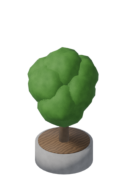
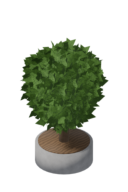
feat(park): 3D wooden fences, forest edge, entrance gate, decoration variants, leafy foliage

Changed region(s): [[0.1562, 0.1875, 0.8438, 0.7812], [0.6562, 0.75, 0.6875, 0.7812]]

diff --git a/src/render/GameScene.js b/src/render/GameScene.js
@@ -44,10 +44,12 @@ export class GameScene extends Phaser.Scene {
       }
     }
     this.fences = this.add.graphics().setDepth(FENCE_DEPTH);
+    this.fenceSprites = [];
     this.ghost = this.add.graphics().setDepth(GHOST_DEPTH);
     this.buildingSprites = new Map();
     this.entitySprites = new Map(); // id -> { sprite, bubble, kind }
     this.lastGridVersion = -1;
+    this.createSurroundings();
 
     this.cameras.main.setZoom(1.2);
     this.centerView();
@@ -57,6 +59,43 @@ export class GameScene extends Phaser.Scene {
 
     this.setupInput();
     this.ui.bindScene(this);
+  }
+
+  // Static scenery around the playable grid: grass ring, a forest edge and the entrance gate.
+  // Purely visual; uses the Blender renders when they are loaded.
+  createSurroundings() {
+    const { grid, entrance } = this.world;
+    const has = (k) => this.textures.exists(k);
+    const RING = 7;
+    let seed = 12345;
+    const rnd = () => ((seed = (seed * 1103515245 + 12345) % 2147483648) / 2147483648);
+    for (let ty = -RING; ty < grid.h + RING; ty++) {
+      for (let tx = -RING; tx < grid.w + RING; tx++) {
+        if (grid.inBounds(tx, ty)) continue;
+        const p = tileToScreen(tx, ty);
+        const key = realKey(this, (tx * 7 + ty * 13) % 5 === 0 ? 'tile-grass2' : 'tile-grass');
+        this.add.image(p.x, p.y, key).setDisplaySize(66, 33).setDepth(GROUND_DEPTH);
+      }
+    }
+    // forest edge: trees on every other cell of the ring, denser further out
+    if (has('img-prop-pine') && has('img-prop-oak')) {
+      for (let ty = -RING; ty < grid.h + RING; ty += 2) {
+        for (let tx = -RING; tx < grid.w + RING; tx += 2) {
+          const out = Math.max(-tx, -ty, tx - grid.w + 1, ty - grid.h + 1); // distance outside the grid
+          if (out < 2) continue;
+          if (rnd() > 0.35 + out * 0.1) continue;
+          const jx = tx + rnd() * 0.8, jy = ty + rnd() * 0.8;
+          const c = tileToScreen(jx + 0.5, jy + 0.5);
+          const key = rnd() < 0.55 ? 'img-prop-pine' : 'img-prop-oak';
+          const s = 0.85 + rnd() * 0.35;
+          this.add.image(c.x, c.y + 32 * s, key).setOrigin(0.5, 1).setDisplaySize(128 * s, 192 * s).setDepth(c.y);
+        }
+      }
+    }
+    if (has('img-prop-gate')) {
+      const c = tileToScreen(entrance.tx, entrance.ty);
+      this.add.image(c.x, c.y + 16, 'img-prop-gate').setOrigin(0.5, 1).setDisplaySize(64, 128).setDepth(c.y + 1);
+    }
   }
 
   setTool(tool) {
@@ -99,10 +138,24 @@ export class GameScene extends Phaser.Scene {
       }
     }
 
-    // wooden fence: a post at every tile corner and two rails between posts
+    // fences: one 3D-rendered segment per tile edge, depth-sorted so monsters pass behind
+    // the front edges; falls back to drawn lines when the renders are missing
     this.fences.clear();
+    for (const s of this.fenceSprites) s.destroy();
+    this.fenceSprites = [];
+    const realFence = this.textures.exists('img-prop-fenceX') && this.textures.exists('img-prop-fenceY');
     const f = this.fences;
     for (const e of builder.enclosures.values()) {
+      if (realFence) {
+        const segs = [];
+        for (let i = e.x0; i <= e.x1; i++) segs.push([i, e.y0 - 0.5, 'X'], [i, e.y1 + 0.5, 'X']);
+        for (let j = e.y0; j <= e.y1; j++) segs.push([e.x0 - 0.5, j, 'Y'], [e.x1 + 0.5, j, 'Y']);
+        for (const [mx, my, axis] of segs) {
+          const c = tileToScreen(mx, my);
+          this.fenceSprites.push(this.add.image(c.x, c.y, `img-prop-fence${axis}`).setDisplaySize(64, 64).setDepth(c.y));
+        }
+        continue;
+      }
       const corners = [[e.x0 - 0.5, e.y0 - 0.5], [e.x1 + 0.5, e.y0 - 0.5], [e.x1 + 0.5, e.y1 + 0.5], [e.x0 - 0.5, e.y1 + 0.5]];
       const posts = [];
       for (let i = 0; i < 4; i++) {
@@ -130,7 +183,14 @@ export class GameScene extends Phaser.Scene {
       if (this.buildingSprites.has(b.id)) continue;
       const big = b.x1 > b.x0;
       const center = big ? tileToScreen(b.x0 + 0.5, b.y0 + 0.5) : tileToScreen(b.x0, b.y0);
-      const key = realKey(this, b.type);
+      let key = realKey(this, b.type);
+      if (b.type === 'decoration') {
+        // several realistic decorations, picked from the building id so it never changes
+        const variants = ['img-bld-decoration', 'img-prop-bush', 'img-prop-lamp', 'img-prop-bench', 'img-prop-flowers', 'img-prop-rock']
+          .filter((k) => this.textures.exists(k));
+        const n = Number(String(b.id).replace(/\D/g, '')) || 0;
+        if (variants.length) key = variants[n % variants.length];
+      }
       let s;
       if (key !== b.type) {
         // Blender render: the tile centre sits 16 px (per tile) above the image bottom

diff --git a/src/main.js b/src/main.js
@@ -9,7 +9,7 @@ const ui = createUI(world);
 const game = new Phaser.Game({
   type: Phaser.AUTO,
   parent: 'game',
-  backgroundColor: '#8ecae6',
+  backgroundColor: '#22351f', // dark forest green beyond the scenery ring
   scale: { mode: Phaser.Scale.RESIZE, width: window.innerWidth, height: window.innerHeight },
   // load every image in one batch (the queue otherwise waits for game-loop ticks between batches)
   loader: { maxParallelDownloads: 64 },
